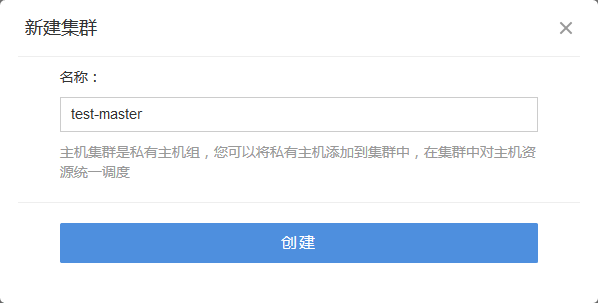
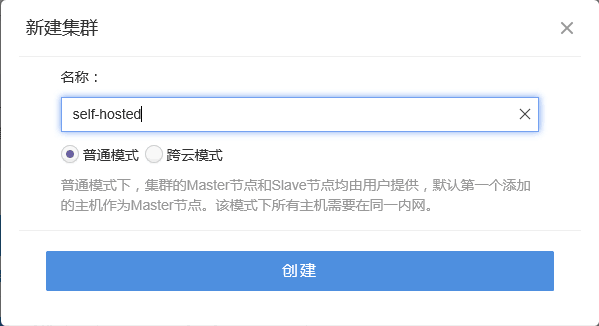
hosting: update hosting images, text @TODO

diff --git a/doc/v1/host/add-cluster.md b/doc/v1/host/add-cluster.md
@@ -5,9 +5,15 @@
 2. 在弹窗中写入集群名字，集群名字必须是"a-z"开头，由"a-z0-9-"组成，不能使用下划线"_"
 ![host1](/doc/v1/images/host/add-cluster-2.png)
 
-### 集群的状态
+## 集群类型
+1. 普通模式：该模式下，集群的Master节点和Slave节点均由用户提供，默认第一个添加的主机作为Master节点。该模式下所有主机需要在同一内网，比如处在同一个数据中心，或者同一个局域网。即便是使用VMWare Workstations在笔记本上虚拟出来的多台机器，只要处于一个网段，均可以添加到一个集群中。
+2. 跨云模式：该模式下，时速云将提供集群的Master节点，用户仅需添加Node节点即可，该模式下可跨越不同的数据中心或路由。不管是IaaS厂商（aws、阿里云等）上的机器，都可以添加到一个集群中。
 
-__私有集群有四种状态：已就绪、准备中、已停止和启动失败。下面对这四种状态分别说明。__
+## 集群的状态
+### 普通模式
+普通模式下，集群只有一种状态：已就绪。
+### 跨云模式
+__普通模式下，集群有四种状态：已就绪、准备中、已停止和启动失败。下面对这四种状态分别说明。__
 
 * 已就绪。该状态表示集群运行正常，集群的节点数、CPU总核数、内存总量都会显示出来。
 
